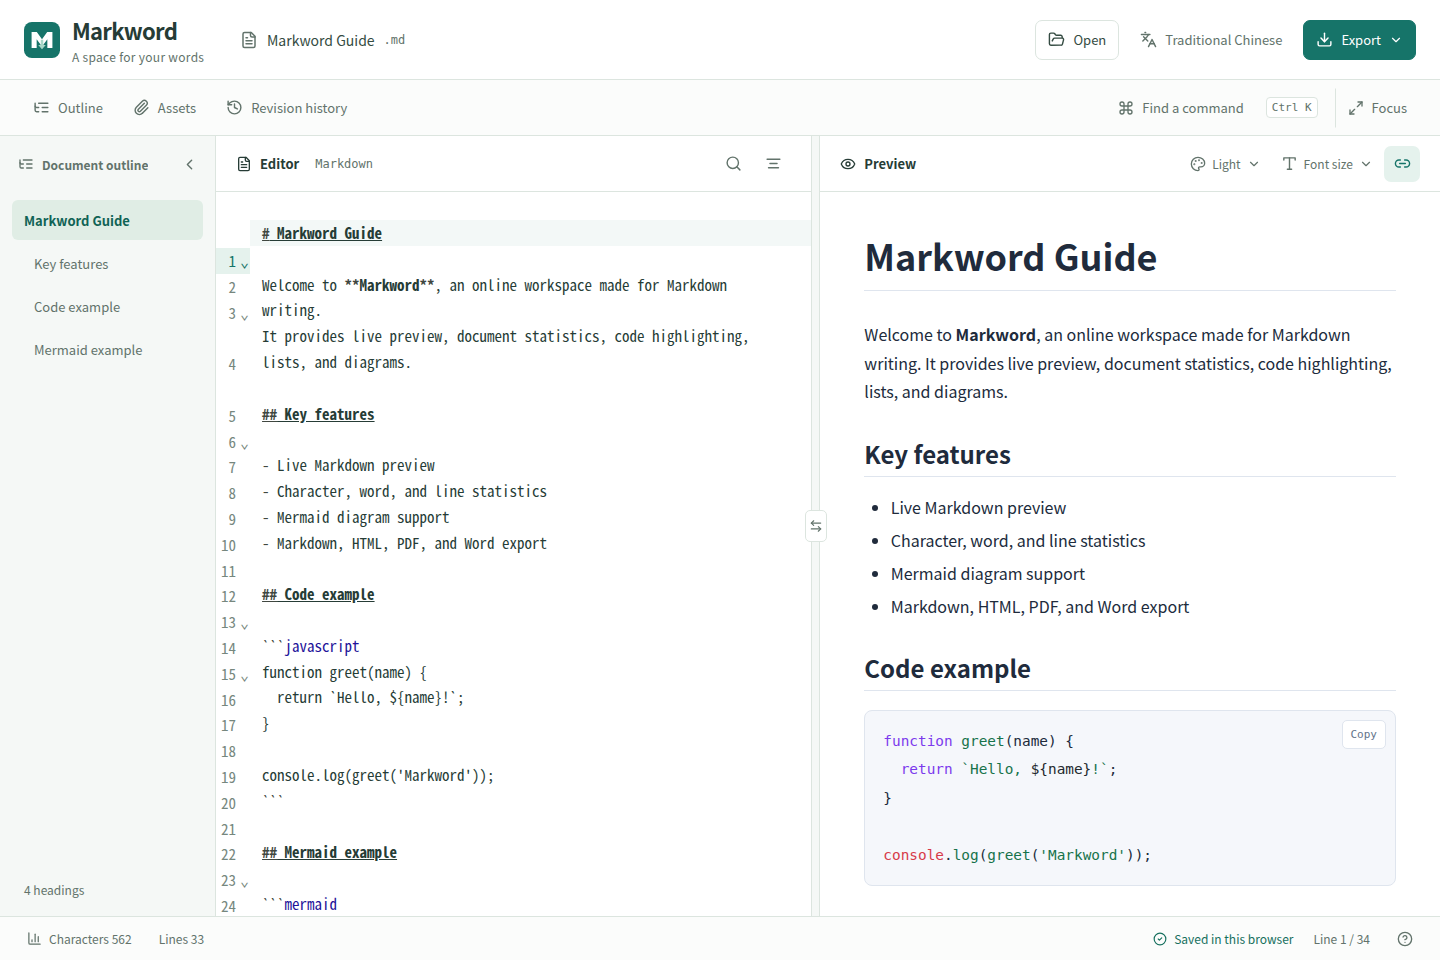
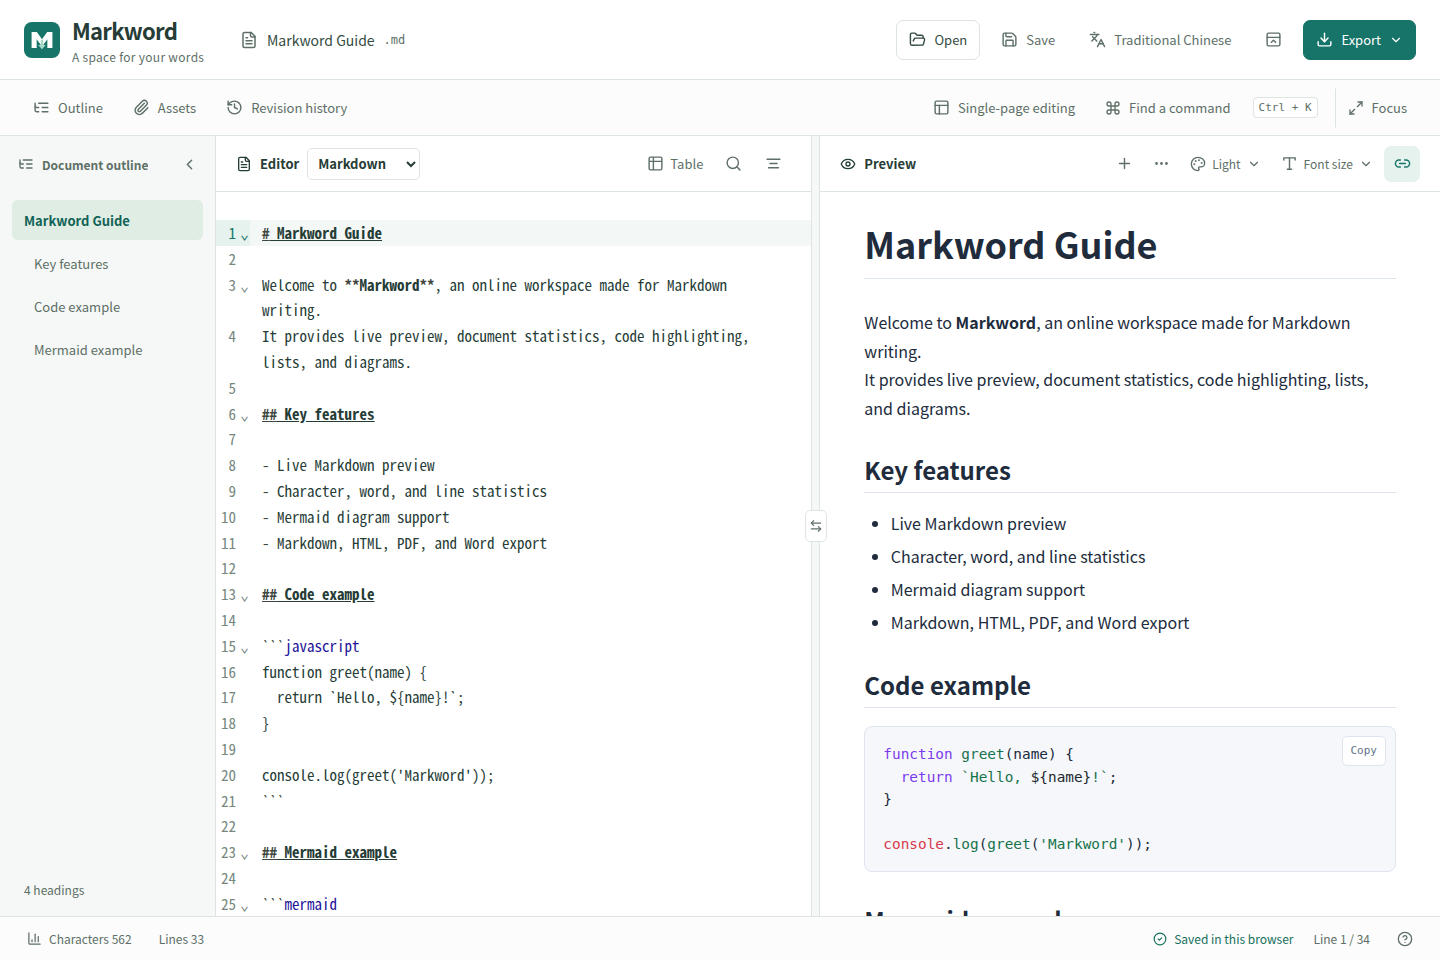
docs(readme): clarify editor workflows and refresh screenshots

diff --git a/README.md b/README.md
@@ -2,19 +2,19 @@
 
 **English** | [繁體中文](README.zh-TW.md)
 
-Markword is a browser-based Markdown editor for notes, documents, and reports. Read and edit in one place or use a synchronized split preview, then export your work as Markdown, HTML, PDF, or Word.
+Markword is a browser-based Markdown and HTML editor. Write Markdown directly in an editable preview, add content with a block menu, or keep the source beside your document. The separate HTML workspace lets you open a page and change its text and links without writing HTML.
 
 ![Markword writing workspace](assets/markword_preview.png)
 
 ## Features
 
-- **Write and preview**: single-pane live editing, synchronized split preview, document outline, and search.
-- **Edit HTML directly**: a separate HTML workspace with click-to-edit text, link editing, synchronized source, and HTML downloads.
-- **Rich content**: code highlighting, Mermaid diagrams, math, task lists, and a visual table editor.
-- **Bring your documents**: open Markdown, text, Mermaid, HTML, Word (`.docx`), or Markword project ZIP files; paste or drop images and attachments.
-- **Save and recover**: automatic browser drafts, revision history, and project backups with attachments.
-- **Export and share**: Markdown, portable HTML, PDF, and Word, with four HTML/PDF layouts.
-- **Make it comfortable**: eight themes, focus mode, word counts, mobile layouts, and English/Traditional Chinese interfaces.
+- **Single-page writing**: edit text in place, press Enter to keep writing, and use `/` or **Add content** for headings, lists, quotes, code, tables, and dividers.
+- **Source and preview together**: switch to split editing with synchronized scrolling, a document outline, and search. Both views edit the same document and share undo/redo.
+- **HTML editing**: open or paste HTML, click to change text and links, and download the edited page with its original styles.
+- **Rich content**: editable code blocks with syntax highlighting, task checkboxes, a table editor, Mermaid diagrams, and math.
+- **Import and export**: open Markdown, text, Mermaid, HTML, Word (`.docx`), and project ZIP files. Export Markdown, portable HTML, or project ZIP; the full edition also exports PDF and Word.
+- **Drafts and backups**: automatic browser drafts, Markdown revision history, and project backups with referenced attachments.
+- **Workspace controls**: a collapsible toolbar, eight preview themes, focus mode, word counts, mobile layouts, and English/Traditional Chinese interfaces.
 
 ## Get started
 
@@ -34,7 +34,7 @@ For installation without Docker, see the [local installation and deployment guid
 
 | Feature | Local full edition | Pages edition |
 | --- | --- | --- |
-| Editing, preview, diagrams, and math | Supported | Supported |
+| Single-page / split editing, diagrams, and math | Supported | Supported |
 | HTML source and visual text editing | Supported | Supported |
 | Browser drafts, revisions, and attachments | Supported | Supported |
 | Markdown, portable HTML, and project ZIP | Supported | Supported |
@@ -42,30 +42,49 @@ For installation without Docker, see the [local installation and deployment guid
 
 In the Pages edition, download portable HTML and use your browser to print it as PDF. Use the local full edition for direct PDF or Word export. See the [deployment guide](docs/development.md#github-pages-建置) for Pages configuration and publishing.
 
-## Basic usage
+## Writing and editing
 
-1. **Open a document**: click **Open**, drop a document into the workspace, or start writing. HTML and Word files convert to Markdown; review the result because complex layouts may change.
-2. **Choose your view**: split view shows source and preview together. Click **Single-page editing** to work directly in the preview, or **Split editing** to bring the source back. The toolbar button in the top header collapses or expands the workspace tools; your choice is remembered.
-3. **Add content**: paste or drop images, use the edit button beside a table to change cells, rows, and columns, or type `/` on an empty line for quick inserts.
-4. **Save and export**: use **Save** or `Ctrl/Cmd+S` to save the source. Open **Export** to choose a sharing or backup format.
+### Markdown: single-page or split editing
 
-Browsers with direct file saving can update an opened file or let you choose a new location. Other browsers download the source instead.
+Click **Open**, drop a document into the workspace, or start writing. In this workspace, HTML and Word files convert to Markdown; review the result because complex layouts may change.
 
-### Edit Markdown without writing markup
+The preview is editable by default. On desktop, click **Single-page editing** to hide the source, or **Split editing** to bring it back. On mobile, use the **Editor** and **Preview** tabs. The toolbar button beside **Export** collapses or expands the workspace tools and remembers your choice.
 
-The preview is editable by default, including writing from an empty document. Enter creates a paragraph or continues a list; Enter on an empty item exits the list. Press `/` on an empty line or use **Add content** to insert paragraphs, three heading levels, bulleted/numbered/task lists, quotes, code, tables, and dividers. The plus beside a block inserts after it; the page footer adds more content. Select links to change their addresses, toggle task checkboxes, or use **Edit table** for tables. Use the **Preview editing tools** menu for undo or redo, and **Single-page editing** to hide the source on desktop; switch between **Editor** and **Preview** on mobile. Changes share the existing source, browser draft, downloads, and undo/redo history.
+![Single-page writing with the Add content menu](assets/markword-block-editor.png)
 
-Code blocks support direct editing, multiline input, and paste. Press Escape or Ctrl/Cmd+Enter to finish; syntax highlighting returns when you leave the block. Blocks containing formulas, footnote references, or media still use the source editor. A visual edit regenerates that block's Markdown, so list indentation, emphasis markers, or reference-link notation may change; other source blocks stay untouched.
+| To… | In the preview… |
+| --- | --- |
+| Write or change text | Click a paragraph or heading and type; empty documents are editable too |
+| Continue writing | Press `Enter` for a new paragraph or list item; press `Enter` on an empty item to leave the list |
+| Insert a block | Type `/` on an empty line or click **+** above the preview to open **Add content** |
+| Insert between blocks | Use the **+** beside a block to insert after it; **Add content** at the bottom continues the document |
+| Edit code | Click the code block; type or paste multiple lines, then press `Escape` or `Ctrl/Cmd+Enter` to finish |
+| Edit links, tasks, or tables | Select a link to change its address, toggle a checkbox, or choose **Edit table** to change cells, rows, and columns |
+| Undo or redo | Open the **…** preview tools menu |
+
+The block menu includes paragraphs, three heading levels, bulleted/numbered/task lists, quotes, code, tables, and dividers. Paste or drop images and attachments into the workspace to add them.
+
+Edits update the same source and browser draft. Code highlighting returns when you leave a code block. Blocks containing formulas, footnote references, or media still use the source editor. Editing a block in the preview may normalize its Markdown, including list indentation, emphasis markers, or reference links; other blocks keep their original source.
 
 ### Edit HTML without writing markup
 
-Choose **HTML editor** from the document mode menu, or append `#/html` to the app URL. Open an `.html`/`.htm` file or use **Paste HTML**, then click text in the preview to edit it. Press Enter to finish, or select a link to change its address. The source stays in sync and can be hidden on desktop; mobile provides preview and source tabs. Use **Undo**, **Redo**, and **Download** (`Ctrl/Cmd+S`) as needed.
+Choose **HTML editor** from the **Markdown** menu above the source pane in split view, or append `#/html` to the app URL. This workspace has its own browser draft, separate from Markdown.
 
-The HTML workspace has its own browser draft, separate from Markdown. Download a copy before clearing browser data. Original styles and scripts remain in the downloaded file, but page scripts do not run in the editing preview. This version edits static text and existing links; it does not offer layout dragging, image replacement, or dynamic chart editing. Use embedded assets or full URLs for resources stored outside the HTML file. Visual edits may normalize markup whitespace and quoting.
+1. **Open a page**: choose an `.html`/`.htm` file, or use **Paste HTML** for a complete page or fragment, including HTML from an AI conversation.
+2. **Edit the preview**: click text and type, then press `Enter` to finish. Select a link to change its address. The source stays in sync; hide it on desktop or switch tabs on mobile.
+3. **Download your changes**: use **Undo** or **Redo** as needed, then **Download** or `Ctrl/Cmd+S` to save an HTML file.
+
+![HTML source beside a directly editable page](assets/markword-html-editor.png)
+
+Original styles and scripts remain in the downloaded file, but page scripts do not run in the editing preview. You can edit static text and existing links; layout dragging, image replacement, and dynamic chart editing are not supported.
+
+Relative-path resources are not imported with the HTML file; use embedded assets or full URLs. Visual edits may normalize markup whitespace and quoting.
 
 Opening HTML in the Markdown workspace still converts it to Markdown. Switch to the HTML editor first to keep the page as HTML.
 
-### Choose an export format
+## Saving and exporting
+
+In the Markdown workspace, use **Save** or `Ctrl/Cmd+S` to save the source. Browsers with direct file saving can update an opened file or let you choose a new location; other browsers download it. Use **Export** for the formats below.
 
 | Format | Use it for |
 | --- | --- |
@@ -78,13 +97,16 @@ Opening HTML in the Markdown workspace still converts it to Markdown. Switch to 
 
 | Shortcut | Action |
 | --- | --- |
-| `Ctrl/Cmd+S` | Save the document |
-| `Ctrl/Cmd+F` | Search and replace |
-| `Ctrl/Cmd+K` | Open the command palette |
+| `Ctrl/Cmd+S` | Save Markdown source or download the current HTML page |
+| `Ctrl/Cmd+F` | Search and replace in the Markdown workspace |
+| `Ctrl/Cmd+K` | Open the Markdown workspace command palette |
 
 ### Drafts and backups
 
-Drafts, revision history, and imported attachments stay in the current browser. An automatically saved draft is separate from your computer file. Export a project ZIP before changing devices or clearing site data; ZIPs do not include revision history or other documents.
+Drafts stay in the current browser; saving a draft does not update a file on your computer. Before changing devices or clearing site data:
+
+- **Markdown**: export a project ZIP to keep the current document and its referenced local attachments. ZIPs do not include revision history or other documents.
+- **HTML**: download the page from the HTML editor. Its separate draft is not included in a Markdown project ZIP.
 
 Importing and editing happen in the browser. PDF/Word export sends the document and supported local images to the Markword service you are using. Run Markword on your own computer to keep that processing there.
 
